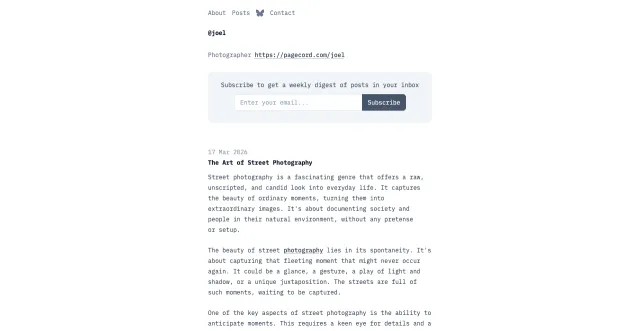
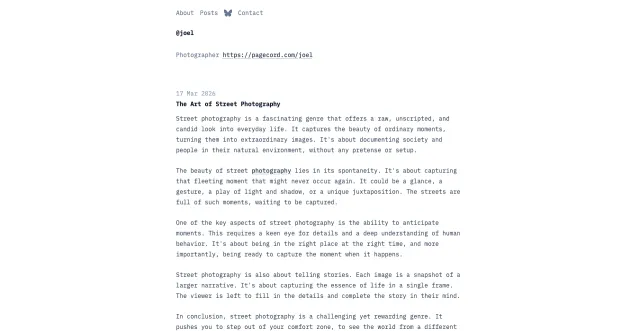
Add Archibald template, screenshot rake task improvements, data migration
New Archibald theme template with accent-underlined links, reordered
header, and dotted borders. Screenshot rake task: skips existing images
by default (OVERWRITE=true to regenerate), cache-busts URLs, forces
standard width for consistent thumbnails. Data migration populates
production from the fixture file.

diff --git a/db/schema.rb b/db/schema.rb
@@ -10,7 +10,7 @@
 #
 # It's strongly recommended that you check this file into your version control system.
 
-ActiveRecord::Schema[8.2].define(version: 2026_03_18_152527) do
+ActiveRecord::Schema[8.2].define(version: 2026_03_18_172003) do
   # These are extensions that must be enabled in order to support this database
   enable_extension "pg_catalog.plpgsql"
   enable_extension "pg_trgm"

diff --git a/db/migrate/20260318172003_populate_theme_templates.rb b/db/migrate/20260318172003_populate_theme_templates.rb
@@ -1,0 +1,15 @@
+class PopulateThemeTemplates < ActiveRecord::Migration[8.2]
+  def up
+    return if ThemeTemplate.exists?
+
+    fixtures = YAML.load_file(Rails.root.join("test/fixtures/theme_templates.yml"))
+
+    fixtures.each do |_key, attrs|
+      ThemeTemplate.create!(attrs)
+    end
+  end
+
+  def down
+    ThemeTemplate.destroy_all
+  end
+end
